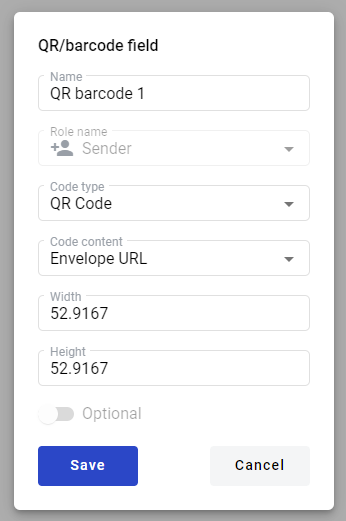
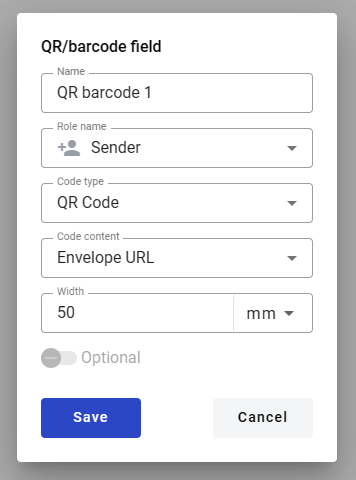
Updated info about barcodes (#238)
* Updated info about barcodes

* Template version info

* barcodes upd

diff --git a/docs/source/pages/howToWorkWithPlatform/mainApplication/templateList/templateManagement/documentManagementOnTemplate/fields/code/code.rst b/docs/source/pages/howToWorkWithPlatform/mainApplication/templateList/templateManagement/documentManagementOnTemplate/fields/code/code.rst
@@ -22,15 +22,17 @@ How to add QR/barcode field to the document
    :align: center
 
 3. Name - this is a name of a field
-4. Role name (becomes editable if data code content is selected) - this is a role which will be assgined to fill this field
+4. Role name - this is a role which will be assgined to fill this field
 5. Code type - this attributes specifies a type of QR or barcode which will be used
 6. Code content - this attribute specifies if the code will be automatically generated and will contain the URL of the envelope or if it will be possible for envelope processing flow participants to fill the code with custom data
 
 .. note:: Most of 1D code types (barcodes) support limited amount and types of characters. Envelope URL code content is not available for such code types.
 
 7. Width - this attribute specifies the code width in pixels (automatically populated with default width of selected code type)
-8. Height - this attribute specifies the code height in pixels (automatically populated with default height of selected code type)
-9. Optional (becomes editable if data code content is selected) - this attribute specifies if this field is mandatory to fill
+
+.. note:: You can select unit of measure for code width - millimeters or percentage of document width.
+
+8. Optional (becomes editable if data code content is selected) - this attribute specifies if this field is mandatory to fill
 
 When all attributes are set, you can click Save button and field will be added. You can click field to see its properties and update them. Also you can delete the field in same menu.
 

diff --git a/docs/source/pages/howToWorkWithPlatform/mainApplication/templateList/templateManagement/templateCreationEdition/templateCreationEdition.rst b/docs/source/pages/howToWorkWithPlatform/mainApplication/templateList/templateManagement/templateCreationEdition/templateCreationEdition.rst
@@ -34,6 +34,9 @@ On template configuration page you can set some template properties, such as tem
    :align: center
 
 1. Version info - appears after template is saved. Here you can find UUIDs of template, it's current version and owner mailbox
+
+.. note:: Template version is updated in case when any changes are made to the template document contents or flow details. New version is created only after first envelope is created from the updated template.
+
 2. Template path - this property allows you to configure template storing location across your mailboxes
 3. Template name and description - these fields are mandatory to save a template
 4. Template Access - property which allows you to set access level of the template according to your needs. You can read more about this functionality :ref:`here <templateAccessLevel>`
